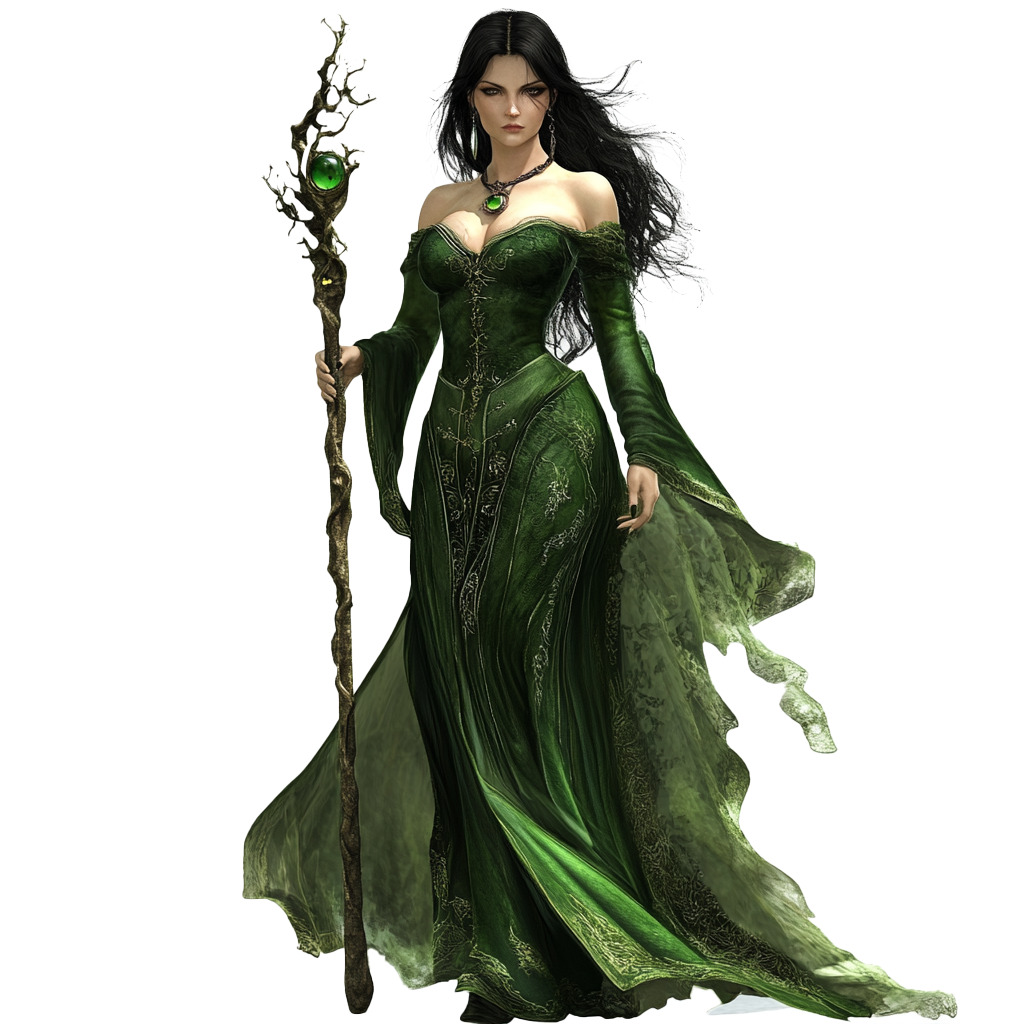
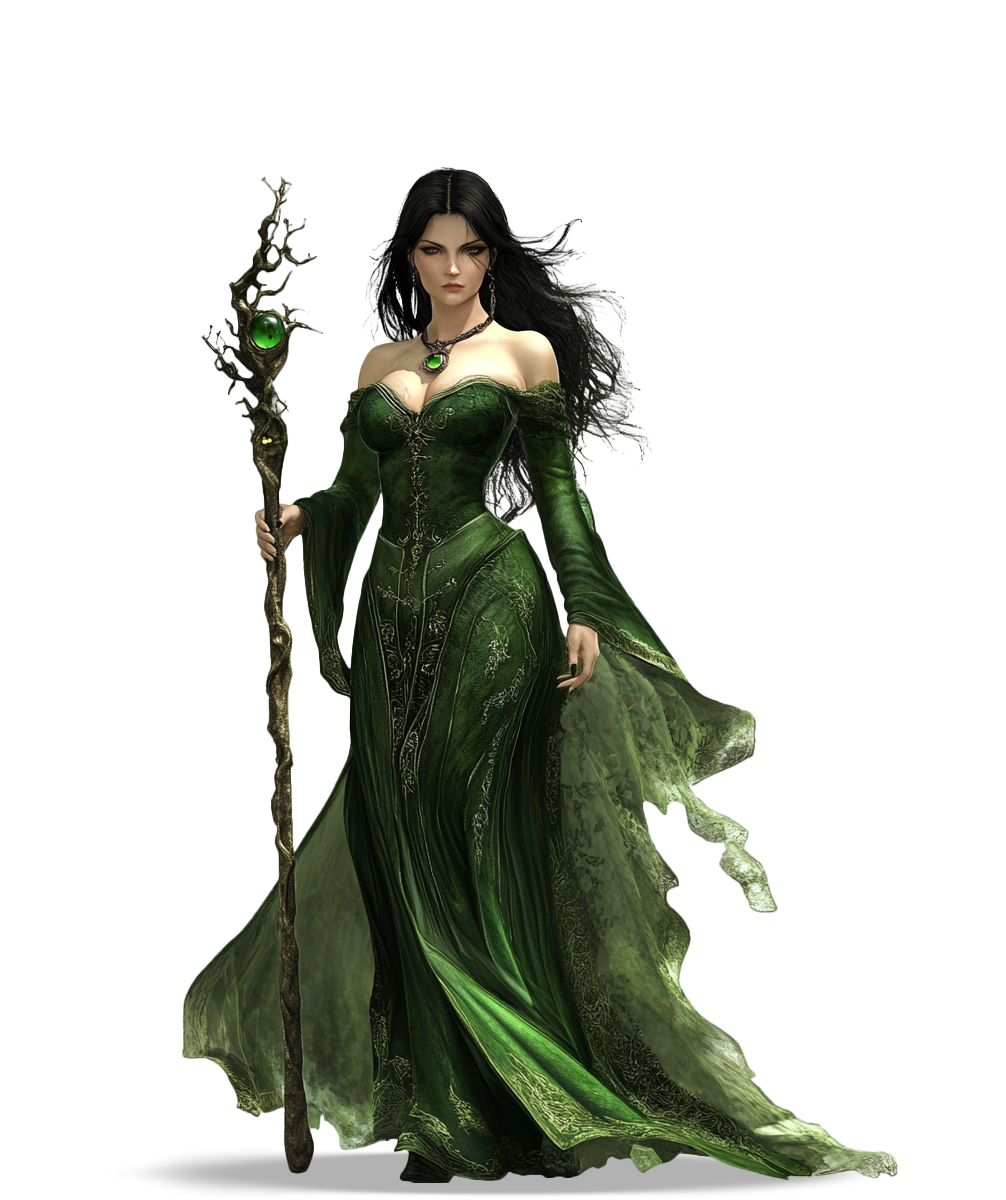
Update: Character select new images

diff --git a/src/legends/modules/character/screens/CharacterSelect/components/CharacterSlider/CharacterSlider.module.scss b/src/legends/modules/character/screens/CharacterSelect/components/CharacterSlider/CharacterSlider.module.scss
@@ -26,20 +26,6 @@ $smallerSlideSize: 12rem;
     position: relative;
     margin-bottom: 2rem;
 
-    &::before {
-      content: '';
-      position: absolute;
-      bottom: -0.625rem;
-      left: 50%;
-      transform: translateX(-50%);
-      width: 16rem;
-      height: 3.5rem;
-      border-radius: 50%;
-      background-color: $tertiaryBackground;
-      z-index: 1;
-      box-shadow: inset 0 0.25rem 0.25rem $primaryBorder;
-    }
-
     .slide {
       position: relative;
       display: flex;

diff --git a/src/legends/modules/character/screens/CharacterSelect/constants/characters.ts b/src/legends/modules/character/screens/CharacterSelect/constants/characters.ts
@@ -1,4 +1,4 @@
-import orcWarrior from '../images/orcWarrior.png'
+import orcWarrior from '../images/orc-warrior.png'
 import penguinPaladin from '../images/penguin-paladin.png'
 import slimeCharacter from '../images/slime.png'
 import sorceressCharacter from '../images/sorceress.png'
@@ -38,7 +38,7 @@ export const CHARACTERS: Character[] = [
   },
   {
     id: 5,
-    name: 'Orc Warrior?',
+    name: 'Orc Warrior',
     description: '',
     image: orcWarrior
   }
